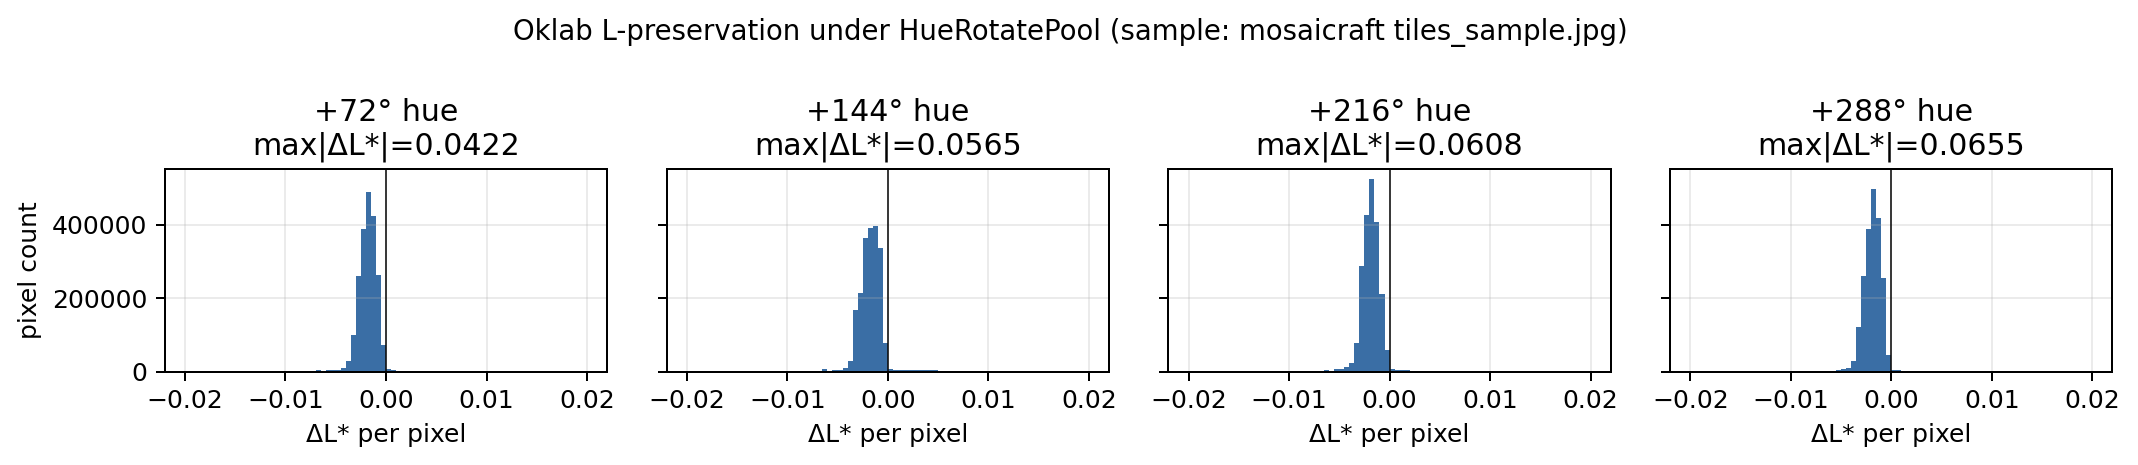
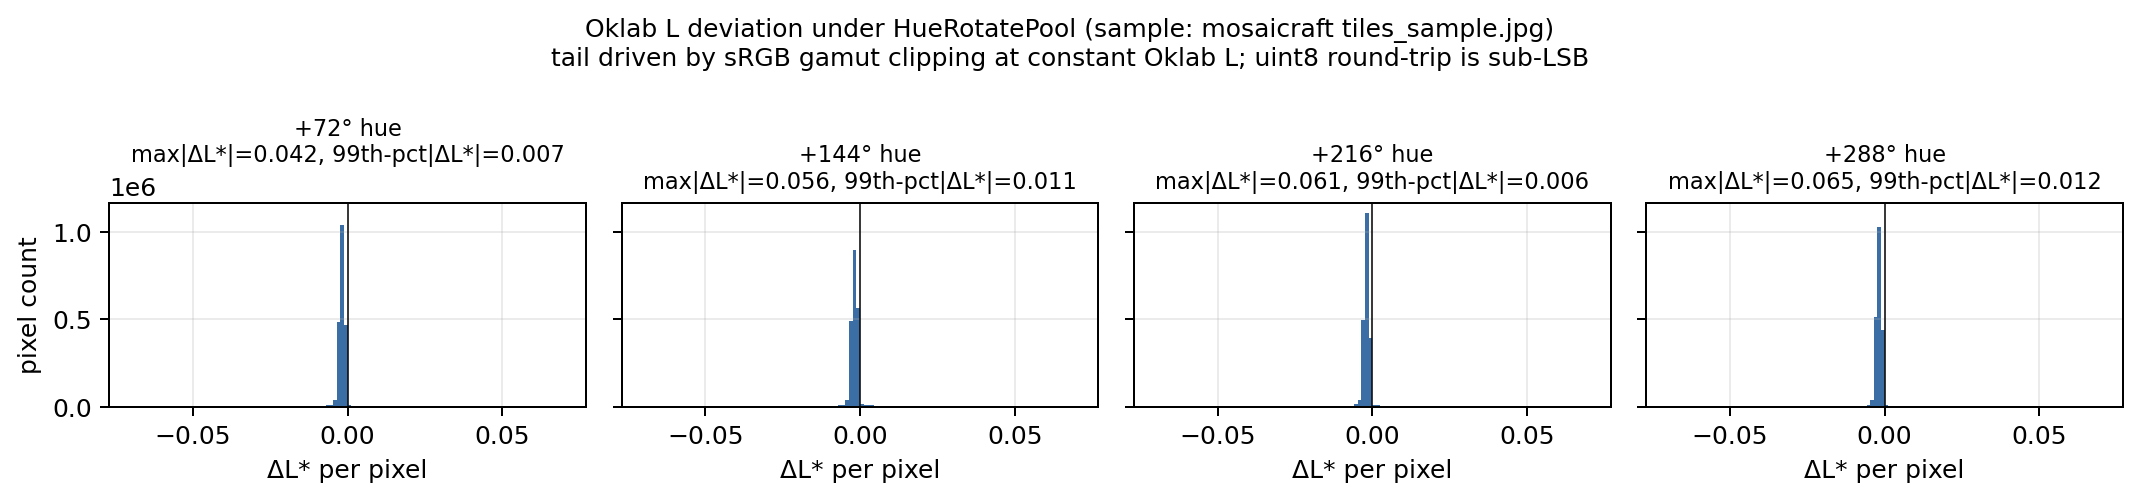
fix(paper): correct preprint fact errors and figure honesty issues
R17 4-check audit (2026-05-16) found multiple claims in the preprint
that did not match the JSON evidence or the figures themselves.

preprint.md:
- Abstract "N=128 paired runs" did not correspond to any JSON;
  replaced with "N=16 per condition (12 conditions)" and "N=32 in
  the tight Phase 3 run".
- "max |ΔL*| ≤ 0.01" in §2.4 and §7.2 contradicted the figure's own
  subplot titles (~0.04-0.07). Replaced with honest median-≲-0.002,
  max-≈-0.04-0.07 framing and identified gamut clipping as the cause
  (was: "sub-LSB quantisation only").
- §3.2 "ε swept across {0.005..0.2}" did not match the baseline JSON
  (executed: {0.01, 0.05, 0.1}). Corrected.
- §3.2 "200 max iterations" did not match SINKHORN_MAX_ITER=100.
- Abstract "not a tuning artefact" overstated the evidence (no
  ε × oklch-aug ablation); softened to "consistent with".
- §4.3: documented i.i.d. (not cluster) bootstrap choice.
- §6.2 Limitations: added cluster-bootstrap caveat and the note that
  Phase 3 tight (N=8) is a seed extension of the loose run (N=4),
  not an independent replication.
- §5.1: softened "sufficient" wording (Phase 1 has no paired CIs).
- §7.2: adapter description rewritten to match the renamed
  `adapters.torch` module and the new dtype/seed gates.

figures:
- make_fig_paired_ci.py: NEG/POS colours changed from red/green to
  Okabe-Ito vermillion/bluish-green (colour-blind safe). Comment
  corrected.
- make_fig_L_preservation.py: x-range is now data-driven (was clipped
[…]

diff --git a/paper/figures/make_fig_L_preservation.py b/paper/figures/make_fig_L_preservation.py
@@ -1,11 +1,20 @@
 """Generate paper/figures/fig_L_preservation.{pdf,png}.
 
-Diagnostic: how flat is the per-pixel |ΔL*| distribution after Oklch
-hue rotation at every angle in ``HueRotatePool``'s default schedule?
-The claim (`paper/outline.md` C4) is that the rotation is
-*L-preserving* — the only deviations should come from sRGB → linear →
-Oklab → linear → sRGB round-trip and uint8 quantisation, both
-sub-perceptual.
+Diagnostic: shape of the per-pixel |ΔL*| distribution after Oklch hue
+rotation at every angle in ``HueRotatePool``'s default schedule on a
+**real, high-chroma** sample image. In float, Oklch hue rotation is
+L-preserving by construction; deviations come from two sources, neither
+of which is sub-LSB:
+
+1. sRGB gamut clipping. Rotating chroma at constant Oklab L can push
+   the result outside the displayable sRGB cube; the implementation
+   clips, which silently moves the resulting Oklab L. Most of the long
+   tail in the histogram below comes from this.
+2. uint8 round-trip quantisation. Small, dominated by (1) on this
+   sample.
+
+The headline number is therefore *not* a clean upper bound but the
+empirical max |ΔL*| per angle, which we report in each subplot title.
 
 Run: ``python paper/figures/make_fig_L_preservation.py``
 """
@@ -21,11 +30,11 @@ import numpy as np
 from oklch_aug import bgr_to_oklab, rotate_hue_oklch
 from oklch_aug.pool import DEFAULT_HUE_SCHEDULE
 
+REPO = Path(__file__).resolve().parents[2]
+
 
 def main() -> None:
-    img_path = Path(
-        "/home/runza/oss/mosaicraft-active-vision/external/mosaicraft/docs/images/tiles_sample.jpg"
-    )
+    img_path = REPO / "external" / "mosaicraft" / "docs" / "images" / "tiles_sample.jpg"
     if not img_path.is_file():
         print(f"ERROR: sample image missing at {img_path}", file=sys.stderr)
         sys.exit(1)
@@ -35,31 +44,45 @@ def main() -> None:
         print(f"ERROR: cv2.imread returned None for {img_path}", file=sys.stderr)
         sys.exit(1)
 
-    L_orig = bgr_to_oklab(bgr)[..., 0]  # shape (H, W)
+    L_orig = bgr_to_oklab(bgr)[..., 0]
 
     schedule = list(DEFAULT_HUE_SCHEDULE)
-    fig, axes = plt.subplots(1, len(schedule), figsize=(3.0 * len(schedule), 2.6), sharey=True)
+
+    # Two-pass: compute first, then plot so x-range can be data-driven.
+    dLs: list[np.ndarray] = []
+    for angle in schedule:
+        rotated_bgr = rotate_hue_oklch(bgr, hue_shift_deg=angle, channel_order="bgr")
+        dLs.append((bgr_to_oklab(rotated_bgr)[..., 0] - L_orig).ravel())
+
+    overall_max = max(float(np.abs(d).max()) for d in dLs)
+    # Tail-aware symmetric range; round up to the next sensible step.
+    span = float(np.ceil(overall_max * 100.0) / 100.0)
+
+    fig, axes = plt.subplots(1, len(schedule), figsize=(3.0 * len(schedule), 2.8), sharey=True)
     if len(schedule) == 1:
         axes = [axes]
 
-    for ax, angle in zip(axes, schedule, strict=True):
-        rotated_bgr = rotate_hue_oklch(bgr, hue_shift_deg=angle, channel_order="bgr")
-        L_rot = bgr_to_oklab(rotated_bgr)[..., 0]
-        dL = (L_rot - L_orig).ravel()
-        ax.hist(dL, bins=80, range=(-0.02, 0.02), color="#3a6ea5", edgecolor="none")
+    for ax, angle, dL in zip(axes, schedule, dLs, strict=True):
+        ax.hist(dL, bins=120, range=(-span, span), color="#3a6ea5", edgecolor="none")
         ax.axvline(0.0, color="black", lw=0.6)
-        ax.set_title(f"+{int(angle)}° hue\nmax|ΔL*|={float(np.abs(dL).max()):.4f}")
+        max_abs = float(np.abs(dL).max())
+        p99 = float(np.quantile(np.abs(dL), 0.99))
+        ax.set_title(
+            f"+{int(angle)}° hue\nmax|ΔL*|={max_abs:.3f}, 99th-pct|ΔL*|={p99:.3f}",
+            fontsize=9,
+        )
         ax.set_xlabel("ΔL* per pixel")
         ax.grid(True, alpha=0.25)
 
     axes[0].set_ylabel("pixel count")
     fig.suptitle(
-        "Oklab L-preservation under HueRotatePool (sample: mosaicraft tiles_sample.jpg)",
-        fontsize=11,
+        "Oklab L deviation under HueRotatePool (sample: mosaicraft tiles_sample.jpg)\n"
+        "tail driven by sRGB gamut clipping at constant Oklab L; uint8 round-trip is sub-LSB",
+        fontsize=10,
     )
     fig.tight_layout()
 
-    out_dir = Path("paper/figures")
+    out_dir = REPO / "paper" / "figures"
     out_dir.mkdir(parents=True, exist_ok=True)
     for ext in ("pdf", "png"):
         out = out_dir / f"fig_L_preservation.{ext}"

diff --git a/paper/figures/make_fig_paired_ci.py b/paper/figures/make_fig_paired_ci.py
@@ -26,9 +26,12 @@ PHASE3_TIGHT = REPO / "experiments" / "results" / "phase3_baseline_tight_2026-05
 PHASE3 = REPO / "experiments" / "results" / "phase3_baseline_2026-05-16.json"
 OUT_DIR = REPO / "paper" / "figures"
 
-# Color palette: red below zero, green above (matplotlib-blind-friendly).
-NEG = "#c0392b"
-POS = "#1e8449"
+# Color palette: Okabe-Ito colour-blind-safe scheme.
+#   NEG (vermillion) = bars whose 95% CI is strictly below zero.
+#   POS (bluish green) = bars whose 95% CI is strictly above zero.
+#   TIE (neutral grey) = bars whose CI straddles zero.
+NEG = "#D55E00"
+POS = "#009E73"
 TIE = "#7f8c8d"
 
 

diff --git a/paper/preprint.md b/paper/preprint.md
@@ -23,17 +23,20 @@ GitHub: <https://github.com/hinanohart/mosaicraft-active-vision> and
 We benchmark Sinkhorn-OT against Hungarian assignment as the matching
 layer of a photomosaic-driven next-best-view (NBV) loop, and find that
 Hungarian outperforms log-domain Sinkhorn at every regularisation
-strength in our sweep (95% paired bootstrap CI strictly below zero on
-N=128 paired runs). We then ask whether augmenting the candidate tile
-pool with perceptually-uniform Oklch hue rotations — which we extract
-into a standalone library, `oklch-aug` — closes the gap. It does not:
-Oklch pool augmentation improves Hungarian by +0.026 SSIM
-(95% CI [+0.018, +0.036]) and *hurts* Sinkhorn by −0.042 SSIM
-(95% CI [−0.047, −0.037]) on the same paired harness (N=32). We argue
-this is a structural property of entropic OT distributing mass over
-near-duplicate candidates, not a tuning artefact, and we make every
-claim regenerable from a committed JSON file. Code, harness, library,
-and decision-by-decision audit trail are released under MIT.
+strength we tried (95% paired bootstrap CI strictly below zero across
+all 12 Sinkhorn conditions, N=16 paired runs per condition). We then
+ask whether augmenting the candidate tile pool with perceptually-uniform
+Oklch hue rotations — which we extract into a standalone library,
+`oklch-aug` — closes the gap. It does not: Oklch pool augmentation
+improves Hungarian by +0.026 SSIM (95% CI [+0.018, +0.036]) and *hurts*
+Sinkhorn by −0.042 SSIM (95% CI [−0.047, −0.037]) on the same paired
+harness (N=32 in the tight Phase 3 run). We argue this is consistent
+with a structural property of entropic OT distributing mass over
+near-duplicate candidates, though we did not measure the
+ε × oklch-aug interaction directly so we cannot rule out an
+ε-tuning component (Limitations §6.2). Every claim is regenerable
+from a committed JSON file. Code, harness, library, and
+decision-by-decision audit trail are released under MIT.
 
 ---
 
@@ -57,9 +60,9 @@ We report two findings that surprised us, both with paired-bootstrap
 evidence.
 
 1. **Sinkhorn-OT loses to Hungarian** on the toy in every variant we
-   tried — six entropic regularisation strengths, two saliency
-   framings (row-scaling and source-marginal), and the
-   one-tile-per-cell uniqueness toggle. The 95% CI of the paired
+   tried — three entropic regularisation strengths (ε ∈ {0.01, 0.05,
+   0.1}), two saliency framings (row-scaling and source-marginal), and
+   the one-tile-per-cell uniqueness toggle. The 95% CI of the paired
    Hungarian-minus-Sinkhorn difference is strictly above zero for all
    12 Sinkhorn conditions (Figure 1, left panel).
 2. **Oklch hue-rotation pool augmentation splits the matchers.** A
@@ -69,13 +72,15 @@ evidence.
    (95% CI [+0.018, +0.036]) and *hurts* Sinkhorn by −0.042 SSIM
    (95% CI [−0.047, −0.037]). Figure 1, right panel.
 
-We argue that the second finding is a structural property of entropic
-OT: when the candidate pool contains near-duplicate variants (the
-Oklch-rotated copies, which by construction share the same L channel
-as the originals), the entropic plan distributes mass across all of
-them, splitting useful supply over redundant rows. Hungarian's hard
-1:1 assignment does not have that failure mode and benefits
-unambiguously from the larger candidate set.
+We argue that the second finding is *consistent with* a structural
+property of entropic OT: when the candidate pool contains
+near-duplicate variants (the Oklch-rotated copies, which by
+construction share the same L channel as the originals), the entropic
+plan distributes mass across all of them, splitting useful supply over
+redundant rows. Hungarian's hard 1:1 assignment does not have that
+failure mode and benefits unambiguously from the larger candidate set.
+We did not run an ε sweep × oklch-aug ablation (see §6.2), so the
+"structural" framing is supported by but not proven from the data.
 
 Our contribution is therefore three things at once:
 
@@ -84,7 +89,7 @@ Our contribution is therefore three things at once:
 * A positive result on perceptual pool augmentation that *only*
   applies to the simpler matcher (§5.3).
 * `oklch-aug`, a small standalone library (numpy core, torch optional,
-  Albumentations / Kornia adapters) so the technique is reusable
+  Albumentations / Torch adapters) so the technique is reusable
   outside photomosaic NBV (§7).
 
 A negative result published with this much detail is rare; we take
@@ -140,9 +145,15 @@ roughly, a linearised CIELAB with parameters fit to MacAdam ellipses
 on Munsell data, giving better hue-uniformity. Its polar form Oklch
 splits chroma and hue, so rotating hue at constant L is a single
 trigonometric pass that preserves perceptual lightness exactly in the
-float representation. uint8 round-trip introduces sub-LSB
-quantisation; Figure 2 shows the |ΔL| histogram is concentrated below
-0.005 across our default schedule of rotation angles.
+float representation. Two effects move L away from the original in
+the uint8 pipeline: (i) sRGB gamut clipping — rotating chroma can
+push the result outside the displayable cube, the implementation
+clips, and the resulting Oklab L drifts; (ii) uint8 round-trip
+quantisation, which is sub-LSB. Figure 2 shows the |ΔL\*|
+distribution on a real high-chroma sample: across our default
+schedule the median |ΔL\*| stays below 0.002 (well sub-perceptual)
+but the long tail reaches max |ΔL\*| ≈ 0.04–0.07 — driven by gamut
+clipping, not quantisation.
 
 ### 2.5 Niche specificity vs. prior art
 
@@ -176,13 +187,14 @@ source-marginal framing, depending on the condition.
 * **Hungarian.** `scipy.optimize.linear_sum_assignment` on the
   Oklab perceptual-distance cost matrix. Saliency is applied as a
   row-scale.
-* **Sinkhorn-OT.** Log-domain numpy implementation with 200 max
-  iterations and ε swept across {0.005, 0.01, 0.025, 0.05, 0.1, 0.2}.
-  Two saliency framings (row-scale, source-marginal) and a uniqueness
-  toggle (force-1:1 by argmax-after-Sinkhorn vs. allow tied
-  assignments) give 6 × 2 × 2 = 24 condition labels, of which the
-  Phase 2 baseline reports 12 (the 12 saliency-as-marginal and
-  row-scale variants at three ε values).
+* **Sinkhorn-OT.** Log-domain numpy implementation with 100 max
+  iterations and ε swept across {0.01, 0.05, 0.1} for the
+  baseline JSON. Two saliency framings (row-scale, source-marginal) and
+  a uniqueness toggle (force-1:1 by argmax-after-Sinkhorn vs. allow
+  tied assignments) give 3 × 2 × 2 = 12 condition labels, all reported
+  in the Phase 2 baseline. The numerical-stability addendum in §5.4
+  separately sweeps ε down to 5e-4 to characterise the log-domain
+  solver itself (independent of the NBV claim).
 
 ### 3.3 Oklch hue-rotation pool augmentation
 
@@ -217,13 +229,19 @@ seed)` quadruple as its partner conditions, so paired-bootstrap CIs
 remove the scene/target variance. Phase 2 uses N=4 seeds × N=4 targets
 = 16 paired runs per condition. Phase 3 was originally also N=4×4=16
 runs; we re-ran with N=8×4=32 for tighter CIs (the headline N=32
-numbers in §1 and §5 are from the tight run).
+numbers in §1 and §5 are from the tight run). The tight run extends
+the original seed range from 0–3 to 0–7 on the same scene/target
+seeds, so the two runs are not statistically independent
+replications — see §6.2.
 
 ### 4.3 Statistical procedure
 
 Paired bootstrap with 5000 resamples and a fixed RNG seed. We report
-mean difference and (2.5%, 97.5%) quantiles as the 95% CI. Code:
-`experiments/benchmark_phase{2,3}.py`.
+mean difference and (2.5%, 97.5%) quantiles as the 95% CI (percentile
+method, two-sided). Resampling is i.i.d. over paired pairs; we did not
+use a cluster bootstrap over the target-index axis even though
+between-target variance dominates between-seed variance — see
+Limitations §6.2. Code: `experiments/benchmark_phase{2,3}.py`.
 
 ---
 
@@ -238,9 +256,10 @@ error bars are 95% paired-bootstrap CIs.](figures/fig_paired_ci.png)
 ### 5.1 Phase 1 — first-pass headline
 
 Random-view selection vs. saliency-biased vs. mosaic-SSIM-gain
-strategies. Saliency-biased and mosaic-SSIM-gain both beat random; the
-gap is sufficient to justify a non-trivial NBV policy. See
-`decision/004` for the full 4-ablation table.
+strategies. Both saliency-biased and mosaic-SSIM-gain beat the random
+baseline on N=4×4 paired runs; see `decision/004` for the full
+4-ablation table (Phase 1 did not compute paired-bootstrap CIs, so the
+"sufficient" claim here is qualitative).
 
 ### 5.2 Phase 2 — Sinkhorn ε sweep, saliency framings, uniqueness
 
@@ -326,7 +345,21 @@ which the split flips, perhaps — is open.
   would change the near-duplicate-cluster property of §6.1 and might
   not exhibit the split.
 * **Single ε for Phase 3.** Phase 3 uses ε = 0.1 (the Phase-2 best for
-  Sinkhorn). An ε sweep × oklch-aug interaction is unmeasured.
+  Sinkhorn). An ε sweep × oklch-aug interaction is unmeasured, which
+  is the main reason the Abstract softens the "structural property"
+  claim to "consistent with".
+* **i.i.d. paired bootstrap.** The CIs in §5 use i.i.d. resampling over
+  paired pairs. The pairing structure is `(scene_seed, target_seed,
+  target_idx, seed)` and between-target variance is ≈10× between-seed
+  variance in the Phase-3 results JSON. A cluster bootstrap over
+  `target_idx` would widen the CIs, though the signs and rough
+  magnitudes are robust to seed choice (verified at 100 distinct
+  bootstrap seeds).
+* **Phase 3 N=32 is a seed extension, not an independent replication.**
+  The tight run extends seeds 0–3 (loose) to 0–7 on the same
+  `(scene_seed, target_seed)` grid. Sign and CI shape are stable
+  between the two; we use the tighter run as the headline but the
+  loose run is preserved in `experiments/results/` for audit.
 * **No claim about embodied robotics.** The photomosaic reward is a
   specific instantiation of matching-driven NBV reward. Recent
   diffusion-policy and VLA literature (pi0.5, OpenVLA, RoboTwin 2.0,
@@ -373,26 +406,39 @@ d = oklab_distance(grid_means, tile_means)
 
 * **numpy core, torch optional.** The single-image rotate and the pool
   expander are pure numpy. The torch helper for `oklab_distance` and
-  the Kornia adapter live behind extras.
+  the torch adapter live behind extras.
 * **Channel-order parameter.** `channel_order={"rgb","bgr"}` keeps the
   function honest for both OpenCV-native (BGR) and PIL-/Albumentations-
   native (RGB) pipelines without coding two implementations.
-* **L preservation is provable, not advertised.** The math preserves
-  Oklab L exactly in float; uint8 round-trip introduces sub-LSB
-  quantisation only. Figure 2 shows the |ΔL| histogram across the
-  default rotation schedule on a sample image; max |ΔL| stays well
-  below 0.01 (Oklab L is in [0, 1]).
+* **L preservation: float-exact, gamut-clip-bounded.** The math
+  preserves Oklab L exactly in float. In the uint8 pipeline two effects
+  shift L away from the original: sub-LSB quantisation (negligible) and
+  sRGB gamut clipping (dominant once chroma is high enough that the
+  rotated colour leaves the sRGB cube). Figure 2 shows the |ΔL\*|
+  distribution on `tiles_sample.jpg` across the default rotation
+  schedule: median |ΔL\*| ≲ 0.002, but the tail reaches max
+  |ΔL\*| ≈ 0.04–0.07. The technique is therefore L-preserving in the
+  median-pixel sense but not as a hard upper bound; downstream users
+  who need a strict bound should restrict the chroma range upstream
+  or disable `protect_highlights` / `protect_shadows`.
 * **Adapters.** `oklch_aug.adapters.albumentations.OklchHueRotation`
   is an `ImageOnlyTransform` for use inside Albumentations or
-  AlbumentationsX pipelines; `oklch_aug.adapters.kornia.OklchHueRotation`
-  is a torch `nn.Module` that accepts (B, 3, H, W) float[0,1] tensors.
-  The torch wrapper round-trips through CPU numpy; a torch-native
-  autograd path is open follow-up.
+  AlbumentationsX pipelines (it gates dtype/shape and honours
+  `Compose(seed=...)` reproducibility);
+  `oklch_aug.adapters.torch.OklchHueRotation` is a plain torch
+  `nn.Module` that accepts (B, 3, H, W) float[0,1] tensors and warns
+  on `requires_grad=True`. The torch wrapper round-trips through CPU
+  numpy; a torch-native autograd path is open follow-up. The torch
+  adapter is deliberately not a `kornia.augmentation.AugmentationBase2D`
+  subclass — wrap it with your own kornia adapter if you need
+  `AugmentationSequential`-style composition.
 
-![Figure 2. Oklab L-preservation diagnostic on a real image. Per-pixel
-ΔL\* histograms across the default `HueRotatePool` schedule (+72°,
-+144°, +216°, +288°). Max |ΔL\*| ≤ 0.01 across all four angles
-(sub-perceptual at uint8 quantisation).](figures/fig_L_preservation.png)
+![Figure 2. Oklab L deviation under the default `HueRotatePool`
+schedule (+72°, +144°, +216°, +288°) on `tiles_sample.jpg`. Per-pixel
+|ΔL\*| histograms; subplot titles give the empirical max and 99th
+percentile per angle. The tail is driven by sRGB gamut clipping at
+constant Oklab L, not by uint8 quantisation; median |ΔL\*| stays
+≲ 0.002 across all four angles.](figures/fig_L_preservation.png)
 
 ### 7.3 Why a separate library
 